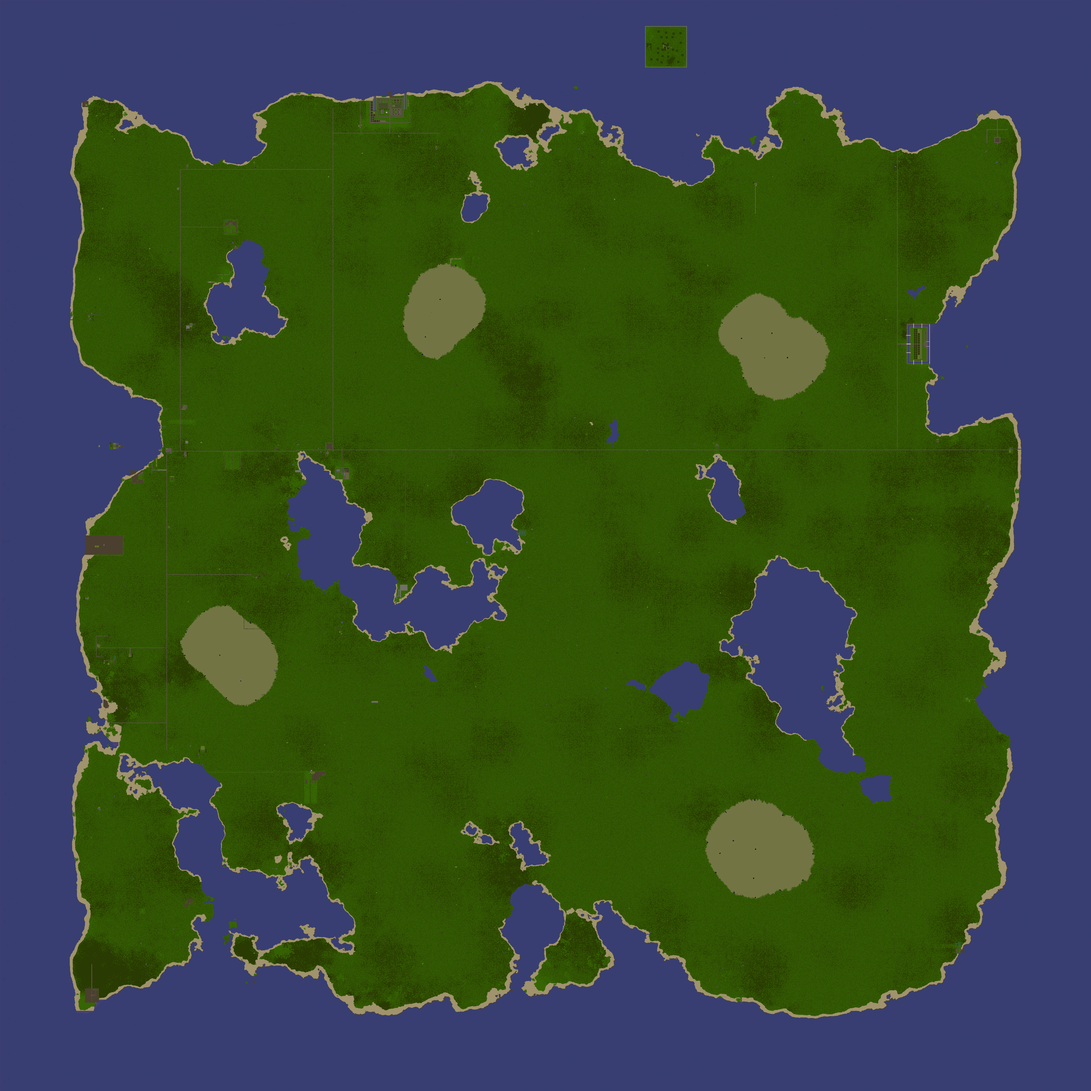
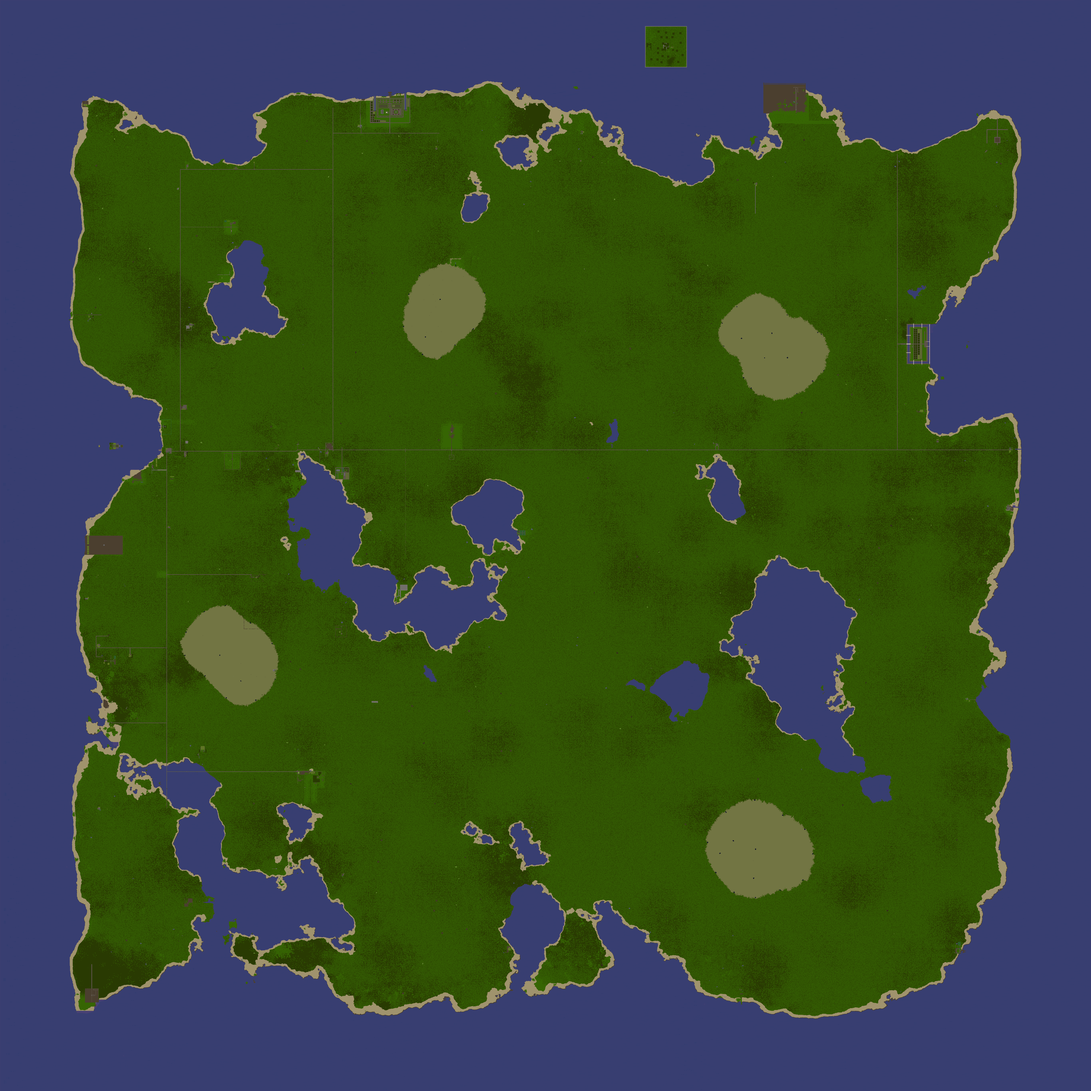
Add files via upload

diff --git a/config.js b/config.js
@@ -90,9 +90,8 @@ deeds.push(new Deed('Festers Place','Fester','Fester',1681193539891,false,4,965,
 deeds.push(new Deed('Elemental','Shadroth','Shadroth',1681994249293,false,4,695,1704,335,false,690,1695,710,1715,0));
 deeds.push(new Deed('Datadyne Hideout','Trenteaston','Trenteaston',1682601752740,false,4,693,1529,310,false,678,1519,703,1539,0));
 deeds.push(new Deed('Sorrowshade','Rasa','Rasa',1682608168346,false,4,3593,3569,13,false,3578,3544,3613,3604,0));
-deeds.push(new Deed('Homestead','Simone','Simone',1682902466656,false,4,1133,1816,19,false,1128,1811,1138,1821,0));
 deeds.push(new Deed('Noreaster','Rosey','Rosey',1683202938487,false,4,3744,525,105,false,3704,485,3784,565,0));
-deeds.push(new Deed('Fredericks Town','Tinaskat','Tinaskat',1683460716996,false,4,867,852,309,false,842,827,892,877,0));
+deeds.push(new Deed('Fredericks Town','Tinaskat','Tinaskat',1683460716996,false,4,867,852,309,false,840,822,894,879,0));
 deeds.push(new Deed('E N C L A V E','Shadowthief','Shadowthief',1683738624226,false,4,344,3736,55,false,319,3711,369,3776,0));
 deeds.push(new Deed('Lake View','Missnobody','Missnobody',1683826579832,false,4,1283,1776,40,false,1258,1753,1311,1800,5));
 deeds.push(new Deed('Shubsville','Shubs','Shubs',1684249269245,false,4,718,1220,192,false,698,1200,738,1240,0));
@@ -103,18 +102,16 @@ deeds.push(new Deed('Whitespire','Plebcicle','Plebcicle',1685375454642,false,4,7
 deeds.push(new Deed('Danger Island','Dragon','Dragon',1685437803428,false,4,2500,175,298,false,2418,94,2581,255,5));
 deeds.push(new Deed('Round Rock','Coulple','Coulple',1685837203026,false,4,3629,2626,80,false,3604,2616,3674,2636,5));
 deeds.push(new Deed('Winterfel','Eagle','Eagle',1686514223300,false,4,488,2460,267,false,483,2455,493,2465,0));
-deeds.push(new Deed('Narfolk','Gerald','Gerald',1687010021960,false,4,669,709,346,false,664,704,674,714,0));
 deeds.push(new Deed('Aiwendil','Radagast','Radagast',1687393331276,false,4,390,2046,83,false,320,2011,460,2081,0));
 deeds.push(new Deed('Nirvus Lakeside','Nirvus','Nirvus',1687399072815,false,4,1280,2370,153,false,1260,2350,1300,2390,0));
 deeds.push(new Deed('Lyngsta','Denully','Denully',1687643023700,false,4,643,1798,252,false,638,1788,653,1808,0));
 deeds.push(new Deed('Brolo','Danious','Danious',1687708939163,false,4,1951,2000,40,false,1936,1990,1976,2010,5));
 deeds.push(new Deed('Atlantis','Smokeyboy','Smokeyboy',1687873514023,false,4,516,1787,24,false,496,1767,536,1812,0));
-deeds.push(new Deed('Makuby','Sandra','Sandra',1687895791248,false,4,1347,472,200,false,1327,414,1367,497,0));
+deeds.push(new Deed('Makuby','Sandra','Sandra',1687895791248,false,4,1347,472,200,false,1317,402,1368,497,0));
 deeds.push(new Deed('Coven','Roux','Roux',1687934501450,false,4,382,3035,93,false,362,3015,402,3055,0));
 deeds.push(new Deed('TBA','Irunfromtrolls','Irunfromtrolls',1687976668443,false,4,1056,1245,24,false,1051,1240,1061,1250,0));
 deeds.push(new Deed('Outer Haven','Ketatsu','Ketatsu',1688288685898,false,4,525,3431,265,false,505,3411,545,3451,0));
 deeds.push(new Deed('Table Manners','Tatang','Cucara',1688481333279,false,4,320,390,5,false,309,379,331,401,0));
-deeds.push(new Deed('Hamerton\'s Lodge','Hamster','Hamster',1688536640255,false,4,1643,550,223,false,1638,545,1648,555,0));
 deeds.push(new Deed('Yodrile','Nexiv','Nexiv',1688688773750,false,4,3798,1690,82,false,3788,1665,3813,1700,0));
 deeds.push(new Deed('Goldenleaf','Kally','Kally',1688713777149,false,4,1748,2168,95,false,1738,2158,1758,2178,0));
 deeds.push(new Deed('November Rain','November','November',1688780314276,false,4,1522,2091,221,false,1517,2086,1527,2096,0));
@@ -122,6 +119,18 @@ deeds.push(new Deed('Liberty','Metrix','Metrix',1688807920221,false,4,1167,2911,
 deeds.push(new Deed('Deepfall Hollows','Tatang','Tatang',1688811875716,false,4,988,2607,486,false,977,2596,999,2618,0));
 deeds.push(new Deed('Shelter','Struggle','Struggle',1688953964966,false,4,685,1587,279,false,680,1582,690,1592,0));
 deeds.push(new Deed('James Beach','James','James',1689465117681,false,4,1128,3219,42,false,1123,3214,1133,3224,0));
+deeds.push(new Deed('Caligari','Journi','Journi',1689687223712,false,4,1695,1631,505,false,1655,1591,1735,1689,0));
+deeds.push(new Deed('Fortuna','Tiara','Tiara',1689859029903,false,4,1344,2106,51,false,1334,2091,1359,2116,0));
+deeds.push(new Deed('The Temple Of Roses','Nabeel','Nabeel',1689912801478,false,4,3016,338,120,false,2866,308,3031,424,0));
+deeds.push(new Deed('Pontah','Kenetto','Kenetto',1689923468192,false,4,601,2156,404,false,591,2146,611,2166,0));
+deeds.push(new Deed('Wurmian Post','Localreporter','Localreporter',1690177128153,false,4,702,619,150,false,697,612,712,634,0));
+deeds.push(new Deed('Ottawa','Ottawajohn','Ottawajohn',1690217023423,false,4,1229,1701,173,false,1221,1660,1248,1713,0));
+deeds.push(new Deed('Broken Dreams','Broken','Broken',1690264141783,false,4,3781,1906,9,false,3761,1886,3821,1926,0));
+deeds.push(new Deed('Blue Blaze','Pedrodestro','Pedrodestro',1690582875227,false,4,885,629,43,false,875,616,895,638,0));
+deeds.push(new Deed('Place','Huey','Huey',1690839186483,false,4,453,2799,24,false,443,2789,463,2809,0));
+deeds.push(new Deed('Arbor Haven','Merric','Merric',1691071557030,false,4,617,1601,56,false,601,1589,627,1615,10));
+deeds.push(new Deed('This Place','Adiss','Adiss',1691180574733,false,4,1283,1097,422,false,1278,1092,1288,1102,0));
+deeds.push(new Deed('Thehide','Mark','Mark',1691254126759,false,4,2180,601,183,false,2175,596,2185,606,0));
 kingdoms[0] = new Kingdom(0,'no known kingdom','','[color-list]');
 kingdoms[1] = new Kingdom(1,'Jenn-Kellon','','');
 kingdoms[2] = new Kingdom(2,'Mol Rehan','','');
@@ -133,22 +142,26 @@ guardTowers.push(new GuardTower('',28720584,4,1525,451,237,''));
 guardTowers.push(new GuardTower('',41498195,4,1408,445,183,''));
 guardTowers.push(new GuardTower('',47388154,4,1526,363,19,''));
 guardTowers.push(new GuardTower('',95145855,4,1354,448,151,''));
-signs.push(new Sign('',73992809,1696,1690,492,'Archaeological Site - The Bakery'));
+signs.push(new Sign('',73992809,1696,1690,491,'Archaeological Site - The Bakery'));
 highwayNodes = [
    [1112,1694,62,1117,1689,62],[1250,636,466,677,636,221,1],[626,1699,66,1],[1250,500,218,1250,1693,184,1],[1250,500,218,1463,500,327,1],
    [644,1694,66,1],[1464,440,109,1464,499,326,1],[3369,1689,340,3369,580,42,1],[631,1694,66,1112,1694,62],[628,1695,66,626,1697,66],
    [630,1695,66,628,1695,66],[630,1695,66,631,1694,66],[702,636,171,701,635,171],[369,2432,98,626,2432,431,1],[625,2432,431,626,2433,428],
    [626,2432,431,369,2432,98,1],[701,636,171,701,626,162,1],[677,637,221,678,636,221],[1250,501,220,1251,500,219],[1250,637,467,1249,636,467],
    [1464,499,326,1463,500,327],[1464,500,327,1],[420,2714,22,1],[626,2714,333,419,2714,22,1],[571,1765,71,626,1765,140,1],
-   [626,1765,140,571,1765,71,1],[625,1765,140,626,1766,140],[626,2715,331,625,2714,333],[626,2718,323,626,1697,66],[933,2157,227,1],
-   [626,2157,409,937,2157,210,1],[627,2157,410,626,2158,408],[1250,1690,198,1249,1689,198],[1251,1689,198,1250,1690,198],[1251,1689,198,1250,1688,198],
-   [677,1694,279,677,636,221,1],[3401,1292,135,1],[3369,1292,281,3402,1292,135,1],[1284,1690,228,1283,1689,228],[1284,1690,228,1285,1689,228],
-   [3369,1688,340,3370,1689,340],[3781,1689,83,1117,1689,62],[3370,1292,281,3369,1293,281],[1284,1688,228,1285,1689,228],[678,1694,280,677,1693,279],
-   [1522,1689,396,1],[1284,1689,228,1],[1250,1689,198,1],[1284,1757,62,1284,1756,62],[1284,1754,65,1284,1688,228,1]
+   [626,1765,140,571,1765,71,1],[625,1765,140,626,1766,140],[626,2715,331,625,2714,333],[933,2157,227,1],[626,2157,405,937,2157,210,1],
+   [627,2157,405,626,2158,405],[1250,1690,198,1249,1689,198],[1251,1689,198,1250,1690,198],[1251,1689,198,1250,1688,198],[677,1694,279,677,636,221,1],
+   [3401,1292,135,1],[3369,1292,281,3402,1292,135,1],[1284,1690,228,1283,1689,228],[1284,1690,228,1285,1689,228],[3369,1688,340,3370,1689,340],
+   [3781,1689,83,1117,1689,62],[3370,1292,281,3369,1293,281],[1284,1688,228,1285,1689,228],[678,1694,280,677,1693,279],[1522,1689,396,1],
+   [1284,1689,228,1],[1250,1689,198,1],[1284,1757,62,1284,1756,62],[1284,1754,65,1284,1688,228,1],[1118,2897,160,775,2897,10,1],
+   [1114,2896,160,1115,2897,160],[1114,2897,160,1114,2896,160],[1116,2894,160,1114,2896,160],[1118,2894,160,1116,2894,160],[1113,2897,160,1],
+   [700,2897,10,701,2897,10],[663,2897,10,662,2897,10],[738,2897,10,739,2897,10],[626,2897,10,626,2896,10,1],[626,2874,10,626,1697,66]
 ];
 bridgeNodes = [
+   [664,2897,10,699,2897,11],[627,2897,10,661,2897,11],[737,2897,11,702,2897,10],[740,2897,10,774,2897,11],[626,2898,10,627,2897,10],
+   [626,2875,10,626,2895,11],[626,2908,82,626,2898,10]
 ];
 tunnelNodes = [
    [3786,1689,72,3782,1689,76,1]
 ];
-var timestamp = 1689676867126;
+var timestamp = 1691659374459;
